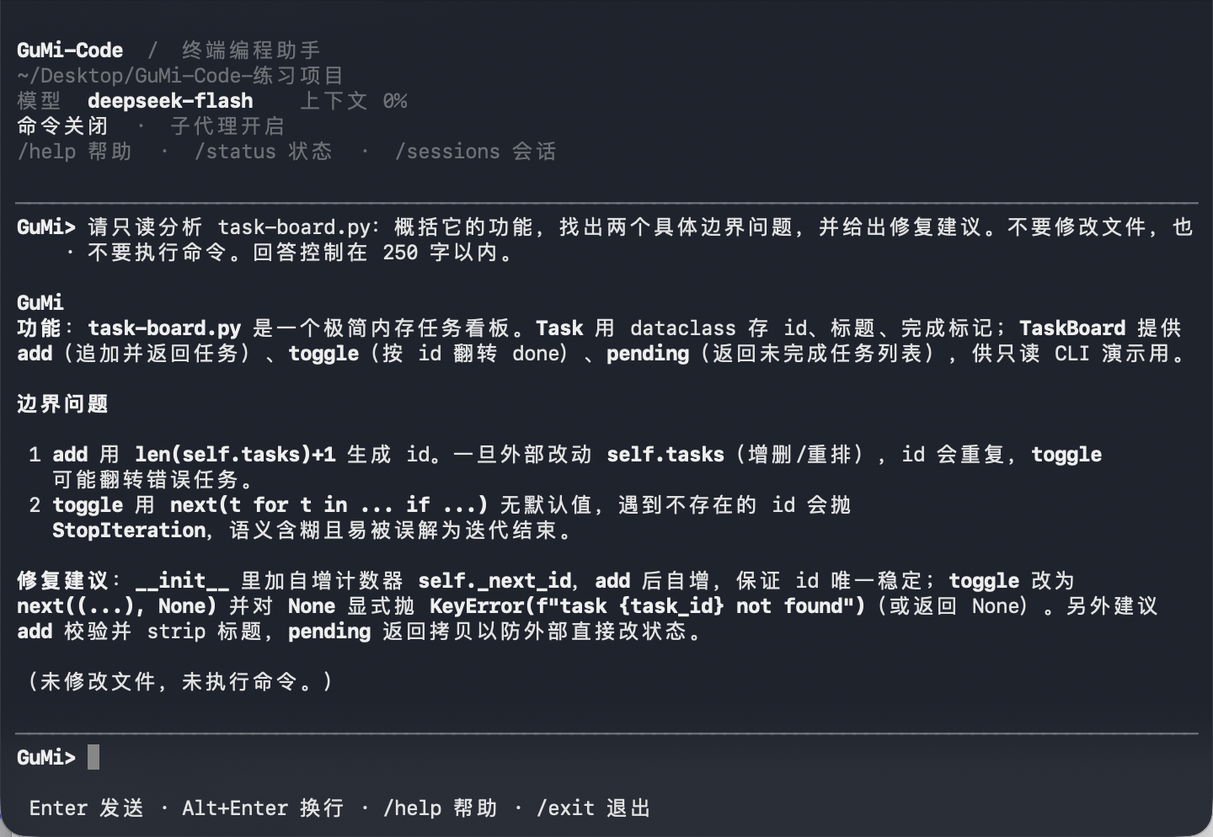
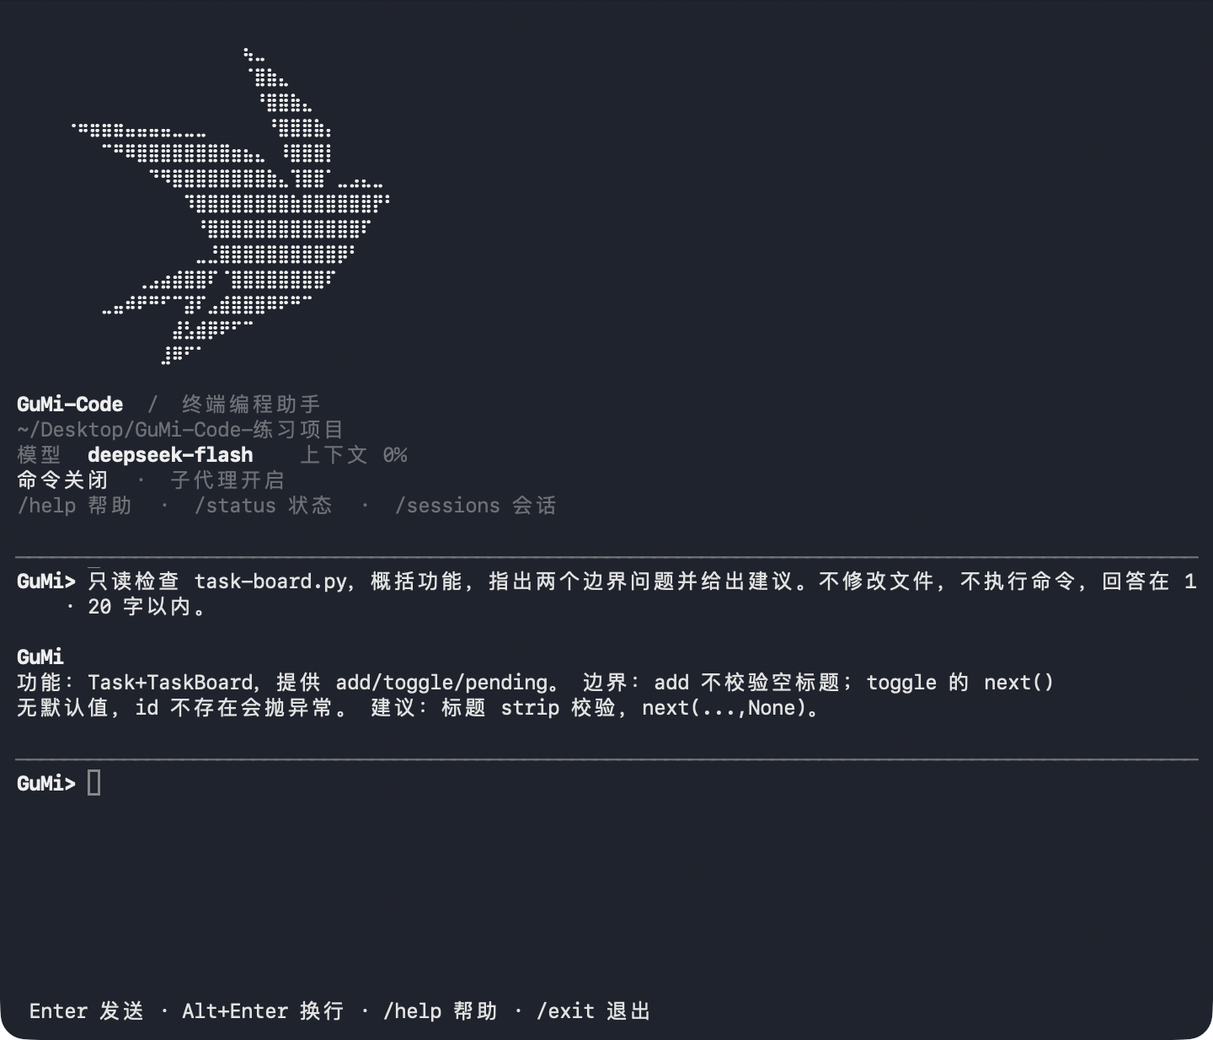
feat: refine desktop layout, conversation titles and README screenshots

diff --git a/desktop/src/GumCode.tsx b/desktop/src/GumCode.tsx
@@ -31,7 +31,6 @@ export function GumCode({ projects, visible }: { projects: Project[]; visible: b
   const history = useRef<HTMLDivElement>(null);
   const historyContent = useRef<HTMLDivElement>(null);
   const [reducedMotion, setReducedMotion] = useState(false);
-  const navigator = useRef<HTMLDivElement>(null);
   const nearBottom = useRef(true);
   const scrolledSession = useRef<string | null>(null);
   const api = window.gumi;
@@ -52,7 +51,7 @@ export function GumCode({ projects, visible }: { projects: Project[]; visible: b
   const draft = drafts[draftKey] || "";
   const files = attachments[draftKey] || [];
   const skillLimitExceeded = new Set(getSkillMentions(draft).map((mention) => mention.name)).size > 3;
-  const turnUserIndex = state.messages.map(message => message.role === "user" && !message.delivery).lastIndexOf(true);
+  const [titleEdit, setTitleEdit] = useState<{ sessionId: string; value: string } | null>(null);
   const previousInput = [...state.messages].reverse().find((message) => message.role === "user")?.content;
 
 
@@ -151,10 +150,6 @@ export function GumCode({ projects, visible }: { projects: Project[]; visible: b
     };
   }, [state.selectedId, visible, pageHidden, reducedMotion]);
 
-  useEffect(() => {
-    if (!visible) navigator.current?.hidePopover();
-  }, [visible]);
-
   async function run(operation: () => Promise<GumCodeState>) {
     if (inFlight.current) return;
     inFlight.current = true;
@@ -185,6 +180,13 @@ export function GumCode({ projects, visible }: { projects: Project[]; visible: b
     }
   }
 
+  async function saveTitle() {
+    if (!titleEdit || !api || pending || titleEdit.sessionId !== state.selectedId) return;
+    if (!titleEdit.value.trim()) { setTitleEdit(null); return; }
+    const next = await run(() => api.gumCodeRename({ sessionId: titleEdit.sessionId, title: titleEdit.value }));
+    if (next?.sessions.find(session => session.id === titleEdit.sessionId)?.title === titleEdit.value.trim()) setTitleEdit(null);
+  }
+
   async function attachFiles() {
     if (!api?.gumCodePickAttachments || !selected || locked || inFlight.current) return;
     const key = selected.id;
@@ -212,7 +214,6 @@ export function GumCode({ projects, visible }: { projects: Project[]; visible: b
     const next = await run(() => value === "__pick__"
       ? api.gumCodePickWorkspace({ providerId: selectedProvider })
       : api.gumCodeNew({ ...(value.startsWith("project:") ? { projectId: value.slice(8) } : { workspaceId: value }), providerId: selectedProvider }));
-    if (next && !next.error && next.selectedId !== state.selectedId) navigator.current?.hidePopover();
     if (carryDraft && draft && next?.selectedId && next.selectedId !== state.selectedId && !next.error) {
       const id = next.selectedId;
       setDrafts((current) => ({ ...current, [id]: current[id] || draft }));
@@ -223,26 +224,23 @@ export function GumCode({ projects, visible }: { projects: Project[]; visible: b
     <section className="gum-code" data-paused={pageHidden || !visible} hidden={!visible} aria-label={t('GuMi-Code 工作区', 'GuMi-Code workspace')}>
       <div className="gum-code-conversation">
         <header className="gum-code-header">
-          <button type="button" className="gum-code-nav-trigger" popoverTarget="gum-code-navigator" title={t('选择项目与对话', 'Select folder and conversation')}><Icon name="folder" size={17} /><span>{currentWorkspace?.name || selected?.workspace.split("/").filter(Boolean).pop() || t("选择文件夹", "Select folder")}</span><Icon name="arrow" size={12} /></button>
-          <div ref={navigator} id="gum-code-navigator" className="gum-code-navigator" popover="auto" role="dialog" aria-label={t('项目与对话', 'Folders and conversations')}>
-            <div className="gum-code-nav-toolbar"><span>{t('项目与对话', 'Folders and conversations')}</span><div>
+          <div id="gum-code-navigator" className="gum-code-navigator" role="navigation" aria-label={t('项目与对话', 'Folders and conversations')}>
+            <div className="gum-code-nav-toolbar"><span>{t('项目', 'Projects')}</span><div>
               <button type="button" disabled={locked} aria-label={t('新建会话', 'New conversation')} title={t('新建会话', 'New conversation')} onClick={() => void changeWorkspace(workspaceValue || "__pick__", false)}><Icon name="plus" size={17} /></button>
-              <button type="button" popoverTarget="gum-code-navigator" popoverTargetAction="hide" aria-label={t('关闭项目与对话', 'Close folders and conversations')}><Icon name="close" size={16} /></button>
             </div></div>
             <div className="gum-code-sessions">
               {groups.map((group) => <details className="gum-code-group" key={group.path} open>
                 <summary title={group.path}><Icon name="arrow" size={11} /><Icon name="folder" size={16} /><span>{group.name}</span></summary>
                 {group.sessions.map((session) => <button type="button" key={session.id} className="gum-code-session" title={session.title || t('新会话', 'New conversation')} aria-current={session.id === state.selectedId ? "true" : undefined} disabled={locked} onClick={async () => {
                   if (!api) return;
-                  const next = await run(() => api.gumCodeSelect({ sessionId: session.id }));
-                  if (next && !next.error) navigator.current?.hidePopover();
+                  await run(() => api.gumCodeSelect({ sessionId: session.id }));
                 }}><span>{session.title || t('新会话', 'New conversation')}</span></button>)}
               </details>)}
               {!groups.length && <p className="gum-code-nav-empty">{t('选择工作区域，开始新对话', 'Select a folder to start a conversation')}</p>}
             </div>
             <button type="button" className="gum-code-nav-folder" disabled={locked} onClick={() => void changeWorkspace("__pick__")}><Icon name="folder" size={15} />{t('选择项目文件夹…', 'Select project folder…')}</button>
           </div>
-          <div><h2>{selected?.title || t('新会话', 'New conversation')}</h2>{selected && <p title={selected.workspace}>{selected.workspace.split("/").filter(Boolean).pop() || selected.workspace}</p>}</div>
+          <div>{titleEdit?.sessionId === selected?.id && titleEdit ? <input className="gum-code-title-input" autoFocus aria-label={t('对话标题', 'Conversation title')} maxLength={100} value={titleEdit.value} disabled={pending} onChange={event => setTitleEdit({ ...titleEdit, value: event.target.value })} onBlur={() => void saveTitle()} onKeyDown={event => { if (event.nativeEvent.isComposing) return; if (event.key === 'Escape') { event.preventDefault(); setTitleEdit(null); } if (event.key === 'Enter') { event.preventDefault(); void saveTitle(); } }} /> : <h2 tabIndex={selected ? 0 : undefined} title={t('双击修改标题', 'Double-click to rename')} onDoubleClick={() => selected && setTitleEdit({ sessionId: selected.id, value: selected.title })} onKeyDown={event => { if (selected && event.key === 'Enter') setTitleEdit({ sessionId: selected.id, value: selected.title }); }}>{selected?.title || t('新会话', 'New conversation')}</h2>}</div>
           {(!available || !ready) && <span className="gum-code-status" role="status">{!available ? t('不可用', 'Unavailable') : t('载入中', 'Loading')}</span>}
         </header>
         {(!available || error || state.error) && <div className="gum-code-error" role="alert">{!available ? "GuMi-Code 需要在已接入引擎的桌面工作台中使用。" : error || state.error}</div>}
@@ -255,7 +253,6 @@ export function GumCode({ projects, visible }: { projects: Project[]; visible: b
               {message.role === "assistant" ? <GumCodeMarkdown streaming={Boolean(message.streaming) && visible && !pageHidden && !reducedMotion}>{message.content}</GumCodeMarkdown> : <div className="gum-code-user-text">{message.content}</div>}
               {(message.delivery || message.interrupted) && <small className="gum-code-delivery">{message.interrupted ? t('输出已中断', 'Output interrupted') : message.delivery === "received" ? t('已接收', 'Received') : active ? t('待接收', 'Pending') : t('未接收', 'Not received')}</small>}
             </article>
-            {index === turnUserIndex && <GumCodeProgress state={state} visible={visible && !pageHidden} />}
           </Fragment>)}
           </div>
         </div>
@@ -264,6 +261,7 @@ export function GumCode({ projects, visible }: { projects: Project[]; visible: b
           <div><button disabled={pending || state.status !== "waiting"} onClick={() => api && state.approval && void run(() => api.gumCodeApprove({ requestId: state.approval!.requestId, approved: false }))}>{t('拒绝', 'Deny')}</button><button className="gum-code-primary" disabled={pending || state.status !== "waiting"} onClick={() => api && state.approval && void run(() => api.gumCodeApprove({ requestId: state.approval!.requestId, approved: true }))}>{t('允许本次操作', 'Allow this operation')}</button></div>
         </section>}
         {!active && selected?.pendingInputs?.map(input => <div className="gum-code-pending-input" key={input.id}><span>{t("未接收", "Not received")}: {input.text}</span><button type="button" disabled={locked} onClick={() => api && void run(() => api.gumCodeSend({ sessionId: selected.id, text: input.text, pendingInputId: input.id }))}>{t('重新发送', 'Send again')}</button></div>)}
+        <div className="gum-code-run-status"><GumCodeProgress state={state} visible={visible && !pageHidden} /></div>
         <form className="gum-code-composer" onSubmit={(event) => { event.preventDefault(); void send(); }}>
           <label className="sr-only" htmlFor="gum-code-input">{t('任务描述', 'Task description')}</label>{!active && previousInput && (error || state.error || (state.statusText && state.statusText !== "本轮已结束")) && <div className="gum-code-composer-label"><button type="button" disabled={Boolean(draft) || pending} title={draft ? t('先清空当前草稿，再取回上一条输入', 'Clear the draft before recovering the previous input') : t('取回后可编辑，不会自动发送', 'Recover for editing without sending')} onClick={() => setDrafts((current) => current[draftKey] ? current : { ...current, [draftKey]: previousInput })}>{t('取回上一条输入', 'Recover previous input')}</button></div>}
           <GumCodeInput key={draftKey} value={draft} disabled={!selected || !ready || !available}

diff --git a/desktop/src/gum-code.css b/desktop/src/gum-code.css
@@ -8,10 +8,7 @@
 .gum-code .gum-code-primary { background: #171717; color: #fff; }
 .gum-code .gum-code-primary:not(:disabled):hover { background: #333; }
 .gum-code label { font-weight: 600; font-size: 12px; }
-.gum-code .gum-code-nav-trigger { anchor-name: --gum-code-nav; display: flex; align-items: center; gap: 8px; flex-shrink: 0; background: #f5f6f9; color: #555f76; font-size: 13px; padding: 8px 12px; }
-.gum-code-nav-trigger > svg:last-child { transform: rotate(90deg); }
-.gum-code-navigator { position: fixed; position-anchor: --gum-code-nav; inset: auto; top: anchor(bottom); left: anchor(left); margin: 8px 0 0; width: min(280px, calc(100vw - 100px)); max-height: min(420px, calc(100dvh - 140px)); padding: 8px; border: 1px solid #e5e7edcc; border-radius: 14px; background: rgb(255 255 255 / 50%); backdrop-filter: blur(18px); color: #343a46; box-shadow: 0 12px 36px #24324b14, 0 2px 6px #24324b08; }
-.gum-code-navigator:popover-open { display: flex; flex-direction: column; animation: gum-code-enter 140ms ease-out; }
+.gum-code-navigator { position:fixed; left:0; top:200px; bottom:82px; width:190px; padding:0 12px; display:flex; flex-direction:column; font-family:inherit; }
 .gum-code-nav-toolbar { display: flex; align-items: center; justify-content: space-between; padding-left: 10px; flex-shrink: 0; }
 .gum-code-nav-toolbar > span { font-size: 11px; color: var(--muted); }
 .gum-code-nav-toolbar > div { display: flex; }
@@ -80,9 +77,9 @@
   .gum-code-composer { margin: 12px 18px 18px; }
 }
 @media (max-width: 760px) {
-  .gum-code { grid-template-columns: minmax(0, 1fr); height: auto; min-height: calc(100vh - 44px); }
-  .gum-code-conversation { min-height: 520px; }
-  .gum-code-history { max-height: 55vh; }
+  .gum-code { grid-template-columns: minmax(0, 1fr); }
+
+  .gum-code-history { min-height:0; }
   .gum-code-empty { margin: 25px auto; }
 }
 
@@ -249,10 +246,24 @@ dialog:has(.gum-memory-panel) .modal-head { margin-bottom: 16px; gap: 16px; }
 .gum-memory-history > summary { min-height: 44px; padding: 14px 0; cursor: pointer; }
 .gum-memory-history p { padding-bottom: 10px; line-height: 1.6; overflow-wrap: anywhere; }
 
-.gum-code-nav-trigger span { max-width: 150px; overflow: hidden; text-overflow: ellipsis; white-space: nowrap; }
 .gum-code-attach-button { display: grid; place-items: center; width: 36px; height: 36px; border: 0; background: transparent; border-radius: 8px; color: var(--ink); }
 .gum-code-attach-button:hover:not(:disabled) { background: var(--hover, #f2f2f2); }
 .gum-code-attachments { display: flex; flex-wrap: wrap; gap: 6px; padding: 4px 0 8px; }
 .gum-code-attachments > span { display: inline-flex; align-items: center; gap: 5px; padding: 4px 7px; border: 1px solid var(--line); border-radius: 7px; font-size: 12px; max-width: 220px; }
 .gum-code-attachments > span > span { overflow: hidden; text-overflow: ellipsis; white-space: nowrap; }
 .gum-code-attachments button { display: grid; place-items: center; border: 0; padding: 3px; background: transparent; }
+
+.gum-code-title-input { width:100%; max-width:600px; font-size:16px; font-weight:600; padding:5px 8px; }
+.gum-code-header h2 { cursor:text; }
+.gum-code-run-status { margin:0 26px; flex-shrink:0; }
+.gum-code-run-status .gum-code-progress { margin:0; border:0; }
+.gum-code-run-status .gum-code-progress-body { max-height:180px; }
+.gum-code .gum-code-composer-actions .gum-code-attach-button { min-width:44px; width:44px; height:44px; padding:0; background:transparent; color:#171717; }
+.gum-code .gum-code-attach-button:hover:not(:disabled) { background:transparent; }
+.gum-code-attach-button svg { stroke-width:2.6; }
+@media(max-width:1000px){.gum-code-run-status{margin:0 18px}}
+
+.gum-code-sessions{flex:1}.gum-code-nav-toolbar>span{font-size:12px}.gum-code-group summary,.gum-code-session span{font-size:13px;line-height:1.5}.gum-code .gum-code-session[aria-current]{background:#f2f2f2;color:#242424}
+@media(max-width:800px){.gum-code-navigator{width:170px;top:184px}}
+
+.gum-code .gum-code-progress-toggle{border:0}

diff --git a/desktop/src/base.css b/desktop/src/base.css
@@ -1,1 +1,6 @@
 :root{font-family:-apple-system,BlinkMacSystemFont,"Segoe UI",sans-serif;color:#242424;background:#fff;--line:#e8e8e8;--muted:#888;--accent:#5260a9;font-size:14px}*{box-sizing:border-box}body{margin:0}h1,h2,h3,p{margin:0}button,input,select,textarea{font:inherit}button{cursor:pointer;border:1px solid var(--line);background:#f6f6f6;color:inherit;border-radius:8px;padding:8px 12px}button:disabled{cursor:default;opacity:.45}button:focus-visible,input:focus-visible,textarea:focus-visible,select:focus-visible{outline:2px solid #3982ff;outline-offset:2px}input,select,textarea{border:1px solid var(--line);border-radius:8px;padding:10px;background:#fff;color:inherit}fieldset{border:0;padding:0;margin:0}.field-label{display:flex;flex-direction:column;gap:8px;margin:18px 0}.action-row{display:flex;align-items:center;gap:10px;margin-top:16px}.primary{background:#171717;color:#fff}.icon-button{display:grid;place-items:center}.titlebar{height:44px;display:flex;justify-content:center;align-items:center;font-size:11px;color:#777;-webkit-app-region:drag;border-bottom:1px solid var(--line)}.navigation{position:fixed;top:44px;bottom:0;left:0;width:190px;padding:25px 12px;border-right:1px solid var(--line);display:flex;flex-direction:column;gap:12px}.brand{padding:0 12px 22px}.brand img{width:100px;height:44px;object-fit:contain}.navigation button{display:flex;align-items:center;gap:15px;border:0;background:transparent;padding:12px}.navigation button[aria-current]{font-weight:600;background:#f5f5f5}.navigation .settings-link{margin-top:auto}.content{margin-left:190px}.settings-route .content{margin-left:0}.settings-layout.settings-panel{height:calc(100svh - 44px);min-height:0;border:0;border-radius:0}.settings-detail{overflow:auto}.settings-card p{margin:12px 0}.settings-card h3{margin-bottom:12px}dialog{border:1px solid var(--line);border-radius:14px;width:min(720px,90vw);max-height:88vh;padding:24px;background:#fff}dialog::backdrop{background:#0004}.modal-head{display:flex;justify-content:space-between;align-items:center;margin-bottom:20px}.error-line,[role=alert]{color:#b42318}@media(max-width:800px){.navigation{width:80px;align-items:center}.navigation span{display:none}.brand{padding:0 0 10px}.brand img{width:52px}.content{margin-left:80px}}@media(prefers-reduced-motion:reduce){*,*::before,*::after{animation:none!important;transition:none!important;scroll-behavior:auto!important}}
+
+.brand img{width:72px;height:72px}.navigation{font-family:inherit}.navigation button{font-size:14px;font-weight:500;letter-spacing:0}.navigation .gum-code-nav-trigger{anchor-name:--gum-code-nav}@media(max-width:800px){.brand img{width:48px;height:48px}}
+
+.brand{display:flex;justify-content:center}.brand img{width:104px;height:104px}.navigation{align-items:stretch}.navigation .settings-link{font-weight:500}
+@media(max-width:800px){.navigation{width:170px;align-items:stretch}.navigation span{display:inline}.brand{padding-bottom:18px}.brand img{width:88px;height:88px}.content{margin-left:170px}.settings-route .content{margin-left:0}}

diff --git a/desktop/src/main.tsx b/desktop/src/main.tsx
@@ -18,7 +18,7 @@ function Shell({state,commit,error}:{state:State;commit:(change:(next:State)=>vo
  const {t}=useI18n(); const [settings,setSettings]=useState(false),[section,setSection]=useState<'code'|'language'>('code'),[generation,setGeneration]=useState(0);
  return <div className={`app ${settings?'settings-route':''}`}>
   <div className="titlebar">GuMi-Code</div>
-  {!settings&&<aside className="navigation"><div className="brand"><img src="./gumi-wordmark.svg" alt="GuMi"/></div><button aria-label="GuMi-Code" aria-current="page"><Icon name="code" size={24}/><span>GuMi-Code</span></button><button className="settings-link" aria-label={t('设置')} onClick={()=>setSettings(true)}><Icon name="settings" size={24}/><span>{t('设置')}</span></button></aside>}
+  {!settings&&<aside className="navigation"><div className="brand"><img src="./app-icon.png" alt="GuMi"/></div><button className="settings-link" aria-label={t('设置')} onClick={()=>setSettings(true)}><Icon name="settings" size={24}/><span>{t('设置')}</span></button></aside>}
   <main className="content">
    {error&&<p role="alert">{error}</p>}
    <div hidden={settings}><GumCode key={generation} projects={[]} visible={!settings}/></div>

diff --git a/desktop/src/gumCodeTypes.ts b/desktop/src/gumCodeTypes.ts
@@ -29,6 +29,7 @@ export type GumCodeBridge = {
   gumCodeNew: (request: { projectId?: string; workspaceId?: string; providerId?: string }) => Promise<GumCodeState>;
   gumCodePickWorkspace: (request?: { providerId?: string }) => Promise<GumCodeState>;
   gumCodeModels: () => Promise<{ models: ModelProfile[]; error?: string }>;
+  gumCodeRename: (request: { sessionId: string; title: string }) => Promise<GumCodeState>;
   gumCodeSelect: (request: { sessionId: string }) => Promise<GumCodeState>;
   gumCodeSend: (request: { sessionId: string; text: string; attachmentIds?: string[]; pendingInputId?: string }) => Promise<GumCodeState>;
   gumCodeApprove: (request: { requestId: string; approved: boolean }) => Promise<GumCodeState>;

diff --git a/src/gum_code/interactive.py b/src/gum_code/interactive.py
@@ -117,6 +117,33 @@ KNOWN_COMMANDS = {
 _SESSION_CANCELLED = object()
 
 
+_STARTUP_BIRD = """
+                   ⢦⣀
+                   ⠈⣿⣷⣄
+                    ⠘⣿⣿⣷⣄
+    ⠐⠶⣶⣶⣶⣤⣤⣤⣤⣀⣀⣀     ⠘⣿⣿⣿⣷⡄
+       ⠉⠛⠿⣿⣿⣿⣿⣿⣿⣿⣿⣶⣦⣄ ⠸⣿⣿⣿⡇
+           ⠙⠻⣿⣿⣿⣿⣿⣿⣿⣿⣷⣄⢹⣿⣿⠁⣀⣠⣄⣀
+              ⠹⣿⣿⣿⣿⣿⣿⣿⣿⣷⣿⣿⣿⣿⣿⣿⡟⠃
+               ⠘⣿⣿⣿⣿⣿⣿⣿⣿⣿⣿⣿⣿⣿⠏
+               ⣀⣘⣿⣿⣿⣿⣿⣿⣿⣿⣿⣿⡿⠃
+          ⢀⣠⣴⣾⣿⣿⠏⠈⣿⣿⣿⣿⣿⣿⣿⣿⠏
+       ⣀⣤⠾⠟⠛⠋⠉⣽⠏⣠⣾⣿⣿⣿⠿⠟⠛⠉
+             ⣼⣣⣾⡿⠟⠋⠉
+            ⣸⠿⠋⠁
+""".strip("\n")
+_SMALL_STARTUP_BIRD = """
+          ⠰⣄⡀
+           ⠹⣿⣦⡀
+  ⠈⠉⠛⢿⣿⣷⣶⣶⣤⣀⢹⣿⡇
+      ⠈⠙⣿⣿⣿⣿⣷⣿⣧⣶⣶⠄
+        ⠈⣿⣿⣿⣿⣿⣿⡿⠃
+     ⣠⣴⠾⡿⢋⣿⣿⣿⡿⠟
+    ⠉⠁ ⣼⡵⠟⠋⠉
+       ⠉
+""".strip("\n")
+
+
 def _safe_terminal_text(value: object) -> str:
     return re.sub(r"[\x00-\x1f\x7f]", "?", str(value))
 
@@ -1316,6 +1343,9 @@ class InteractiveRuntime:
             percent = 0
         table.add_row("上下文占用", f"{percent}%")
         if show_title:
+            self.console.print()
+            bird = _SMALL_STARTUP_BIRD if self.console.width < 60 else _STARTUP_BIRD
+            self.console.print(Text(bird, style="bold bright_blue", no_wrap=True))
             self.console.print()
             self.console.print(Text.assemble(
                 ("GuMi-Code", "bold blue"), ("  /  终端编程助手", "dim"),

diff --git a/checks/test_cli_presentation.py b/checks/test_cli_presentation.py
@@ -26,6 +26,8 @@ def test_startup_and_status_preserve_information_at_terminal_width(width):
     interactive.InteractiveRuntime.show_status(runtime, show_title=True)
     startup = stream.getvalue()
     assert 'GuMi-Code' in startup and 'demo-model' in startup
+    bird = interactive._SMALL_STARTUP_BIRD if width < 60 else interactive._STARTUP_BIRD
+    assert bird in startup
     assert '/help' in startup and '/status' in startup
     assert '上下文' in startup and '0%' in startup
     assert '命令关闭' in startup
@@ -34,6 +36,7 @@ def test_startup_and_status_preserve_information_at_terminal_width(width):
     stream.seek(0); stream.truncate()
     interactive.InteractiveRuntime.show_status(runtime)
     assert 'Session' in stream.getvalue() and 'Sandbox' in stream.getvalue()
+    assert bird not in stream.getvalue()
 
 
 def test_repl_prompt_brand_and_command_dispatch(monkeypatch):

diff --git a/README_en.md b/README_en.md
@@ -19,7 +19,7 @@
   <a href="#desktop">Desktop</a> · <a href="#cli">CLI</a> · <a href="README.md">中文</a> · <strong>English</strong>
 </p>
 
-![GuMi-Code reading project files and streaming a response](docs/assets/readme/desktop-working.jpg)
+![GuMi-Code desktop project conversations and code analysis](docs/assets/readme/desktop-working.jpg)
 
 <p align="center"><sub>Desktop in action · Sample project with a local simulated model; file tools run through the actual app.</sub></p>
 
@@ -55,9 +55,11 @@ The first runtime preparation downloads Python and dependencies. You do not need
 ### Your first task
 
 1. Open Settings → GuMi-Code settings, enter the API base URL, model name, and API key, then save. Use the connection test to check that the endpoint is reachable.
-2. Return to the conversation page, select a project folder, and confirm that you trust it.
+2. Return to the conversation page, select a project folder from the left sidebar, and confirm that you trust it.
 3. Send a request, such as “Explain this project's main features” or “Fix this error and run the relevant tests.”
 4. Approve or deny command requests after reviewing the displayed operation. You can stop a running task or continue a previous conversation from history.
+
+The sidebar groups conversations by project. A title is generated after the first question and answer; double-click the header title to rename it. Elapsed time and execution progress appear above the input box.
 
 You can add attachments, manage the selected workspace's memory and `AGENTS.md` in settings, and change the interface language.
 

diff --git a/README.md b/README.md
@@ -19,9 +19,9 @@
   <a href="#桌面端">桌面端上手</a> · <a href="#cli">CLI 上手</a> · <strong>中文</strong> · <a href="README_en.md">English</a>
 </p>
 
-![GuMi-Code 阅读项目文件并流式输出分析](docs/assets/readme/desktop-working.jpg)
+![GuMi-Code 桌面端项目对话与代码分析](docs/assets/readme/desktop-working.jpg)
 
-<p align="center"><sub>桌面端工作画面 · 示例项目与本地模拟模型，文件工具由真实应用执行。</sub></p>
+<p align="center"><sub>桌面端任务画面 · 示例项目与本地模拟模型，文件工具由真实应用执行。</sub></p>
 
 ## 可以用它做什么
 
@@ -55,9 +55,11 @@ npm start
 ### 开始第一个任务
 
 1. 打开「设置 → GuMi-Code 设置」，填写 API 地址、模型名称和 API Key，保存配置；可用连接测试确认接口可访问。
-2. 返回对话页，选择项目文件夹并确认信任该目录。
+2. 返回对话页，从左侧选择项目文件夹并确认信任该目录。
 3. 输入需求并发送，例如「解释这个项目的主要功能」或「修复这个报错，并运行相关测试」。
 4. 需要执行命令时，根据弹出的操作说明批准或拒绝；运行中可停止，也可从历史会话继续交流。
+
+左侧按项目列出历史对话。首轮问答完成后会生成对话标题，双击顶部标题可修改；运行时间和执行过程显示在输入框上方。
 
 可以添加附件，也可以在设置中管理所选工作区的记忆、编辑 `AGENTS.md`，或切换界面语言。
 

diff --git a/desktop/README.md b/desktop/README.md
@@ -21,9 +21,11 @@ npm start
 ## 使用
 
 1. 进入「设置 → GuMi-Code 设置」，填写 API 地址、模型名称和 API Key，保存后可测试连接。模型服务需支持 OpenAI 兼容的 Chat Completions 和工具调用。
-2. 返回对话页，选择并信任项目文件夹。
+2. 返回对话页，从左侧选择并信任项目文件夹。
 3. 输入需求并发送，可添加附件；需要执行命令时，按提示批准或拒绝，运行中可停止。
 4. 从历史会话继续交流。在设置中可管理所选工作区的记忆、编辑 `AGENTS.md`，或切换语言。
+
+左侧按项目列出历史对话。首轮问答完成后生成标题，双击顶部标题可改名；运行时间和执行过程显示在输入框上方。
 
 配置 API：
 
